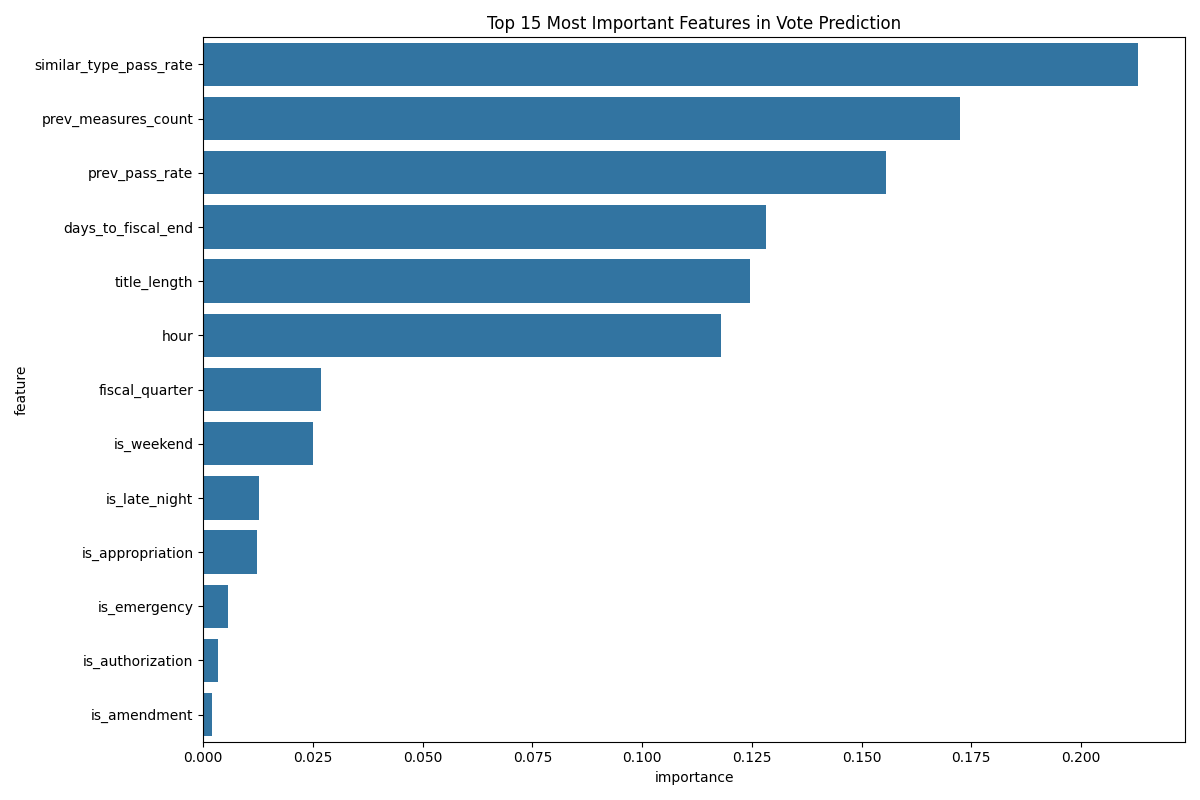
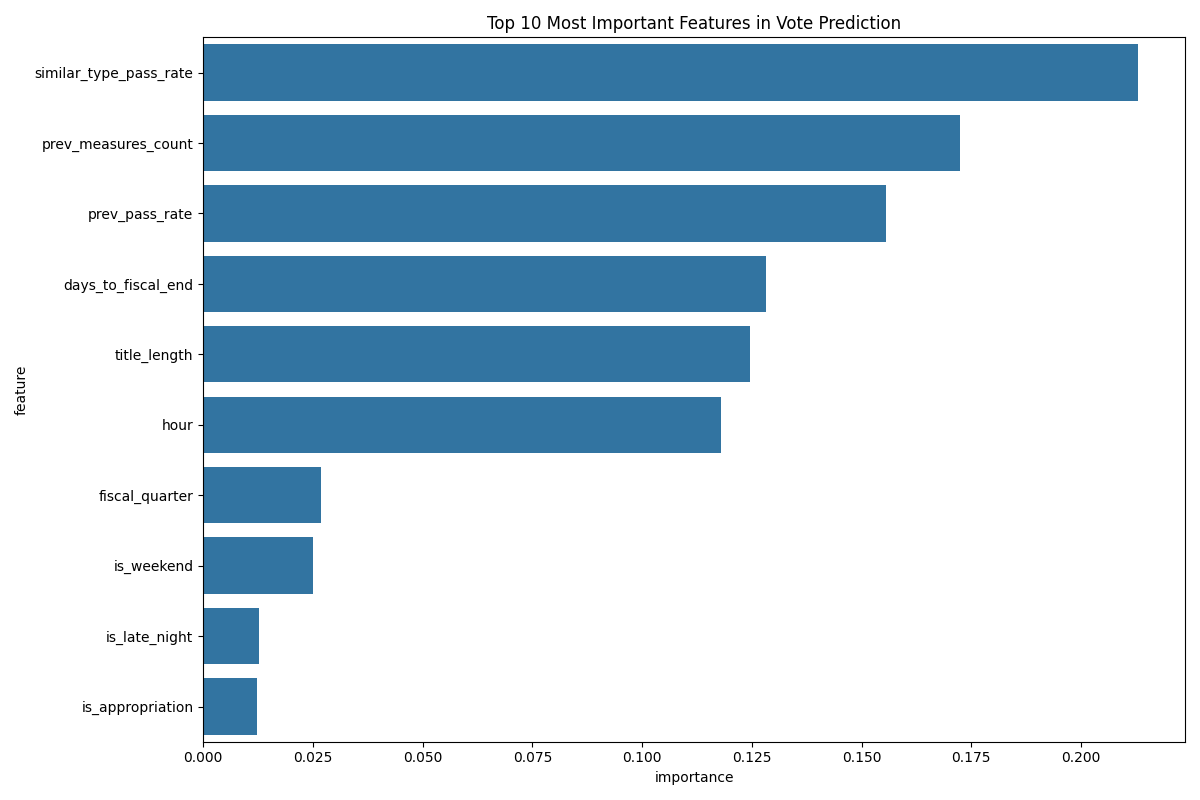
Update feature importance visualization to display top 10 features

diff --git a/vote_prediction.py b/vote_prediction.py
@@ -225,12 +225,13 @@ def main():
         print(classification_report(results['y_test'], y_pred))
         
         plt.figure(figsize=(12, 8))
+        top_10_features = results['feature_importance'].head(10)
         sns.barplot(
             x='importance',
             y='feature',
-            data=results['feature_importance'].head(15)
+            data=top_10_features
         )
-        plt.title('Top 15 Most Important Features in Vote Prediction')
+        plt.title('Top 10 Most Important Features in Vote Prediction')
         plt.tight_layout()
         plt.savefig('feature_importance.png')
         
